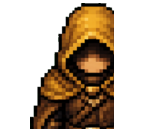
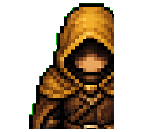
Fix dialogue portrait framing

Changed region(s): [[0.1944, 0.0, 0.8056, 1.0], [0.6667, 0.1515, 0.6944, 0.1818]]

diff --git a/src/app.js b/src/app.js
@@ -1689,9 +1689,9 @@ const elements = {
     const portraits = {
       "camp-mira": "./public/assets/ui/dialogue-portraits/mira.png",
       "camp-brann": "./public/assets/ui/dialogue-portraits/brann.png",
-      recruiter: "./public/assets/ui/dialogue-portraits/recruiter.png",
+      recruiter: "./public/assets/ui/dialogue-portraits/recruiter.png?v=20260604-2",
       guildmaster: "./public/assets/ui/dialogue-portraits/guildmaster.png?v=20260604-11",
-      oracle: "./public/assets/ui/dialogue-portraits/oracle.png",
+      oracle: "./public/assets/ui/dialogue-portraits/oracle.png?v=20260604-2",
       warden: "./public/assets/ui/dialogue-portraits/warden.png",
       blacksmith: "./public/assets/ui/dialogue-portraits/blacksmith.png",
       "arena-master": "./public/assets/ui/dialogue-portraits/arena-master.png",